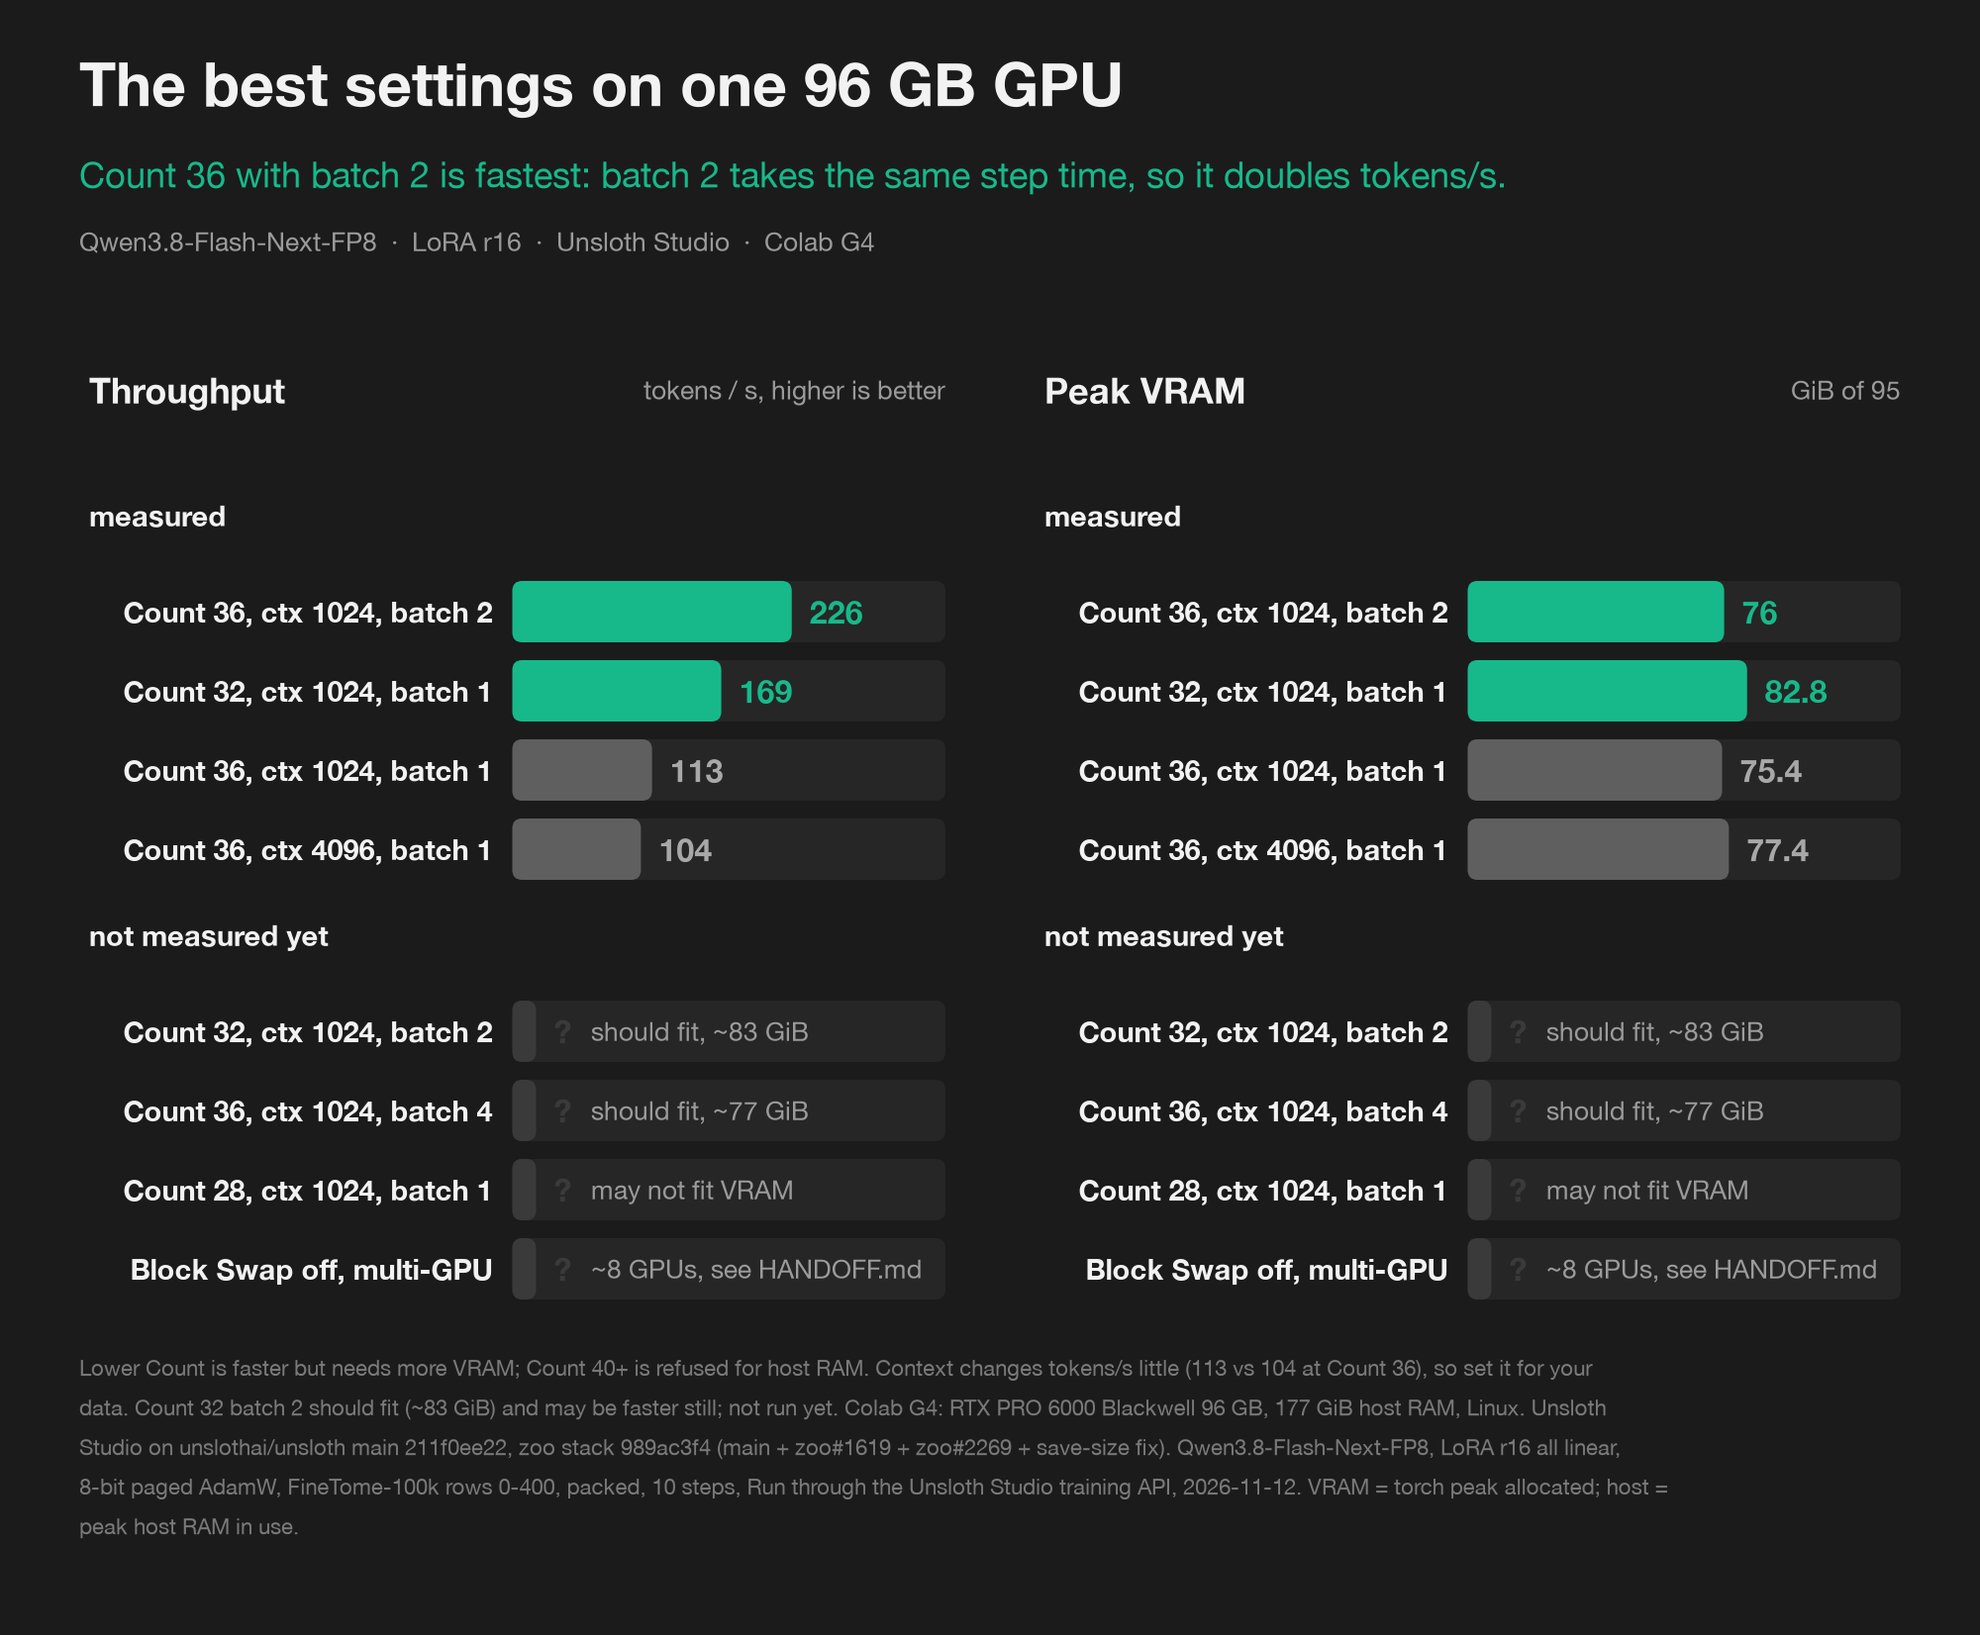
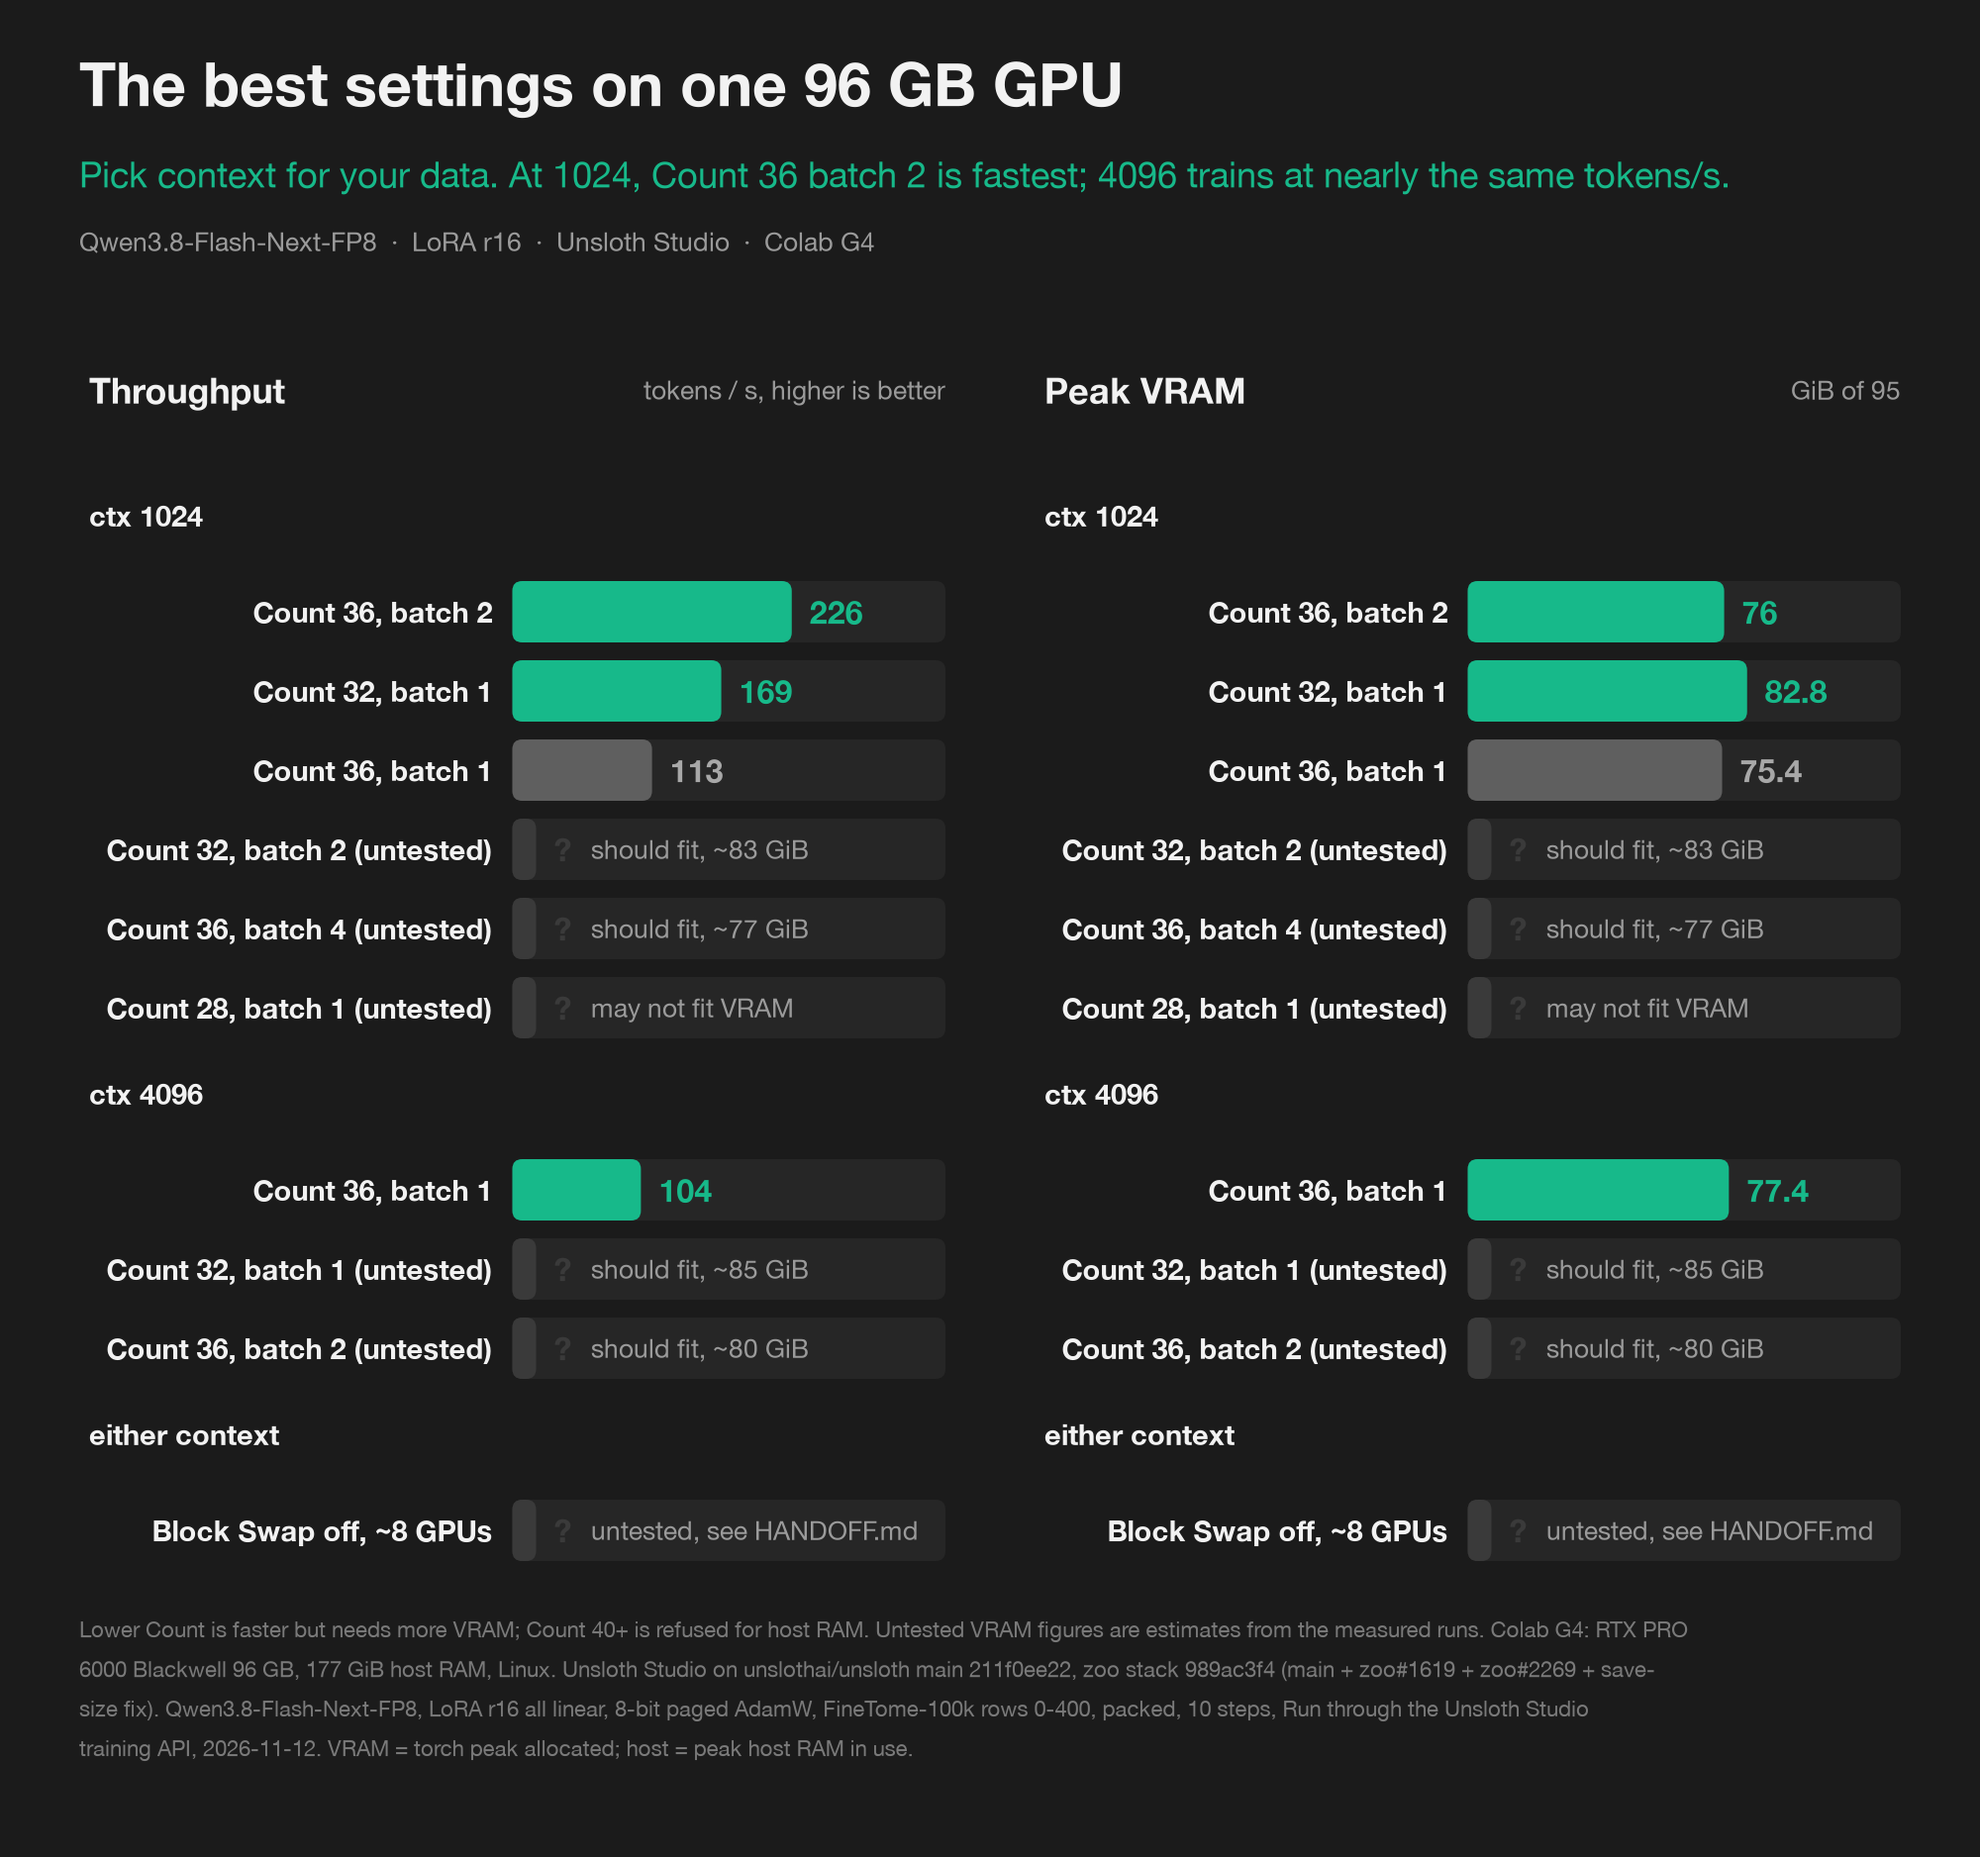
Flash-Next sweep: best settings grouped by context length

diff --git a/flash-next-sweep/make_charts.py b/flash-next-sweep/make_charts.py
@@ -260,20 +260,22 @@ tc.thick_chart(
                 'GPU-hours = GPUs x wall-clock. ' + FOOT),
     out = os.path.join(H, '10-efficiency'), ncols = 2, fmt = QFMT)
 
-# 11. Best settings: tokens/s and VRAM for each measured setting, best first
-bs = [(k, l) for k, l in (('nt-c36-bs2', 'Count 36, ctx 1024, batch 2'), ('nt-c32-ctx1024', 'Count 32, ctx 1024, batch 1'),
-                          ('nt-c36-ctx1024', 'Count 36, ctx 1024, batch 1'), ('nt-c36-ctx4096', 'Count 36, ctx 4096, batch 1')) if ok(k)]
-bk = ['new', 2, 'base', 'base']
-UNMEASURED = [('Count 32, ctx 1024, batch 2', 'should fit, ~83 GiB'), ('Count 36, ctx 1024, batch 4', 'should fit, ~77 GiB'),
-              ('Count 28, ctx 1024, batch 1', 'may not fit VRAM'), ('Block Swap off, multi-GPU', '~8 GPUs, see HANDOFF.md')]
+# 11. Best settings per context length: measured rows, then untested candidates
+P = '#3a3a3a'
+CTXG = [('ctx 1024', [('nt-c36-bs2', 'Count 36, batch 2', 'new'), ('nt-c32-ctx1024', 'Count 32, batch 1', 2), ('nt-c36-ctx1024', 'Count 36, batch 1', 'base')],
+                     [('Count 32, batch 2', 'should fit, ~83 GiB'), ('Count 36, batch 4', 'should fit, ~77 GiB'), ('Count 28, batch 1', 'may not fit VRAM')]),
+        ('ctx 4096', [('nt-c36-ctx4096', 'Count 36, batch 1', 'new')],
+                     [('Count 32, batch 1', 'should fit, ~85 GiB'), ('Count 36, batch 2', 'should fit, ~80 GiB')]),
+        ('either context', [], [('Block Swap off, ~8 GPUs', 'untested, see HANDOFF.md')])]
+def best_groups(val):
+    return [(g, [(l, val(k), kd) for k, l, kd in meas if ok(k)] + [(l if l.startswith('Block') else l + ' (untested)', 0.0, P, n) for l, n in todo]) for g, meas, todo in CTXG]
 tc.thick_chart(
-    panels = [{'title': 'Throughput', 'unit': 'tokens / s, higher is better', 'groups': [('measured', [(l, round(toks(k)), bk[i]) for i, (k, l) in enumerate(bs)]), ('not measured yet', [(l, 0.0, '#3a3a3a', n) for l, n in UNMEASURED])]},
-              {'title': 'Peak VRAM', 'unit': 'GiB of 95', 'groups': [('measured', [(l, round(vram(k), 1), bk[i]) for i, (k, l) in enumerate(bs)]), ('not measured yet', [(l, 0.0, '#3a3a3a', n) for l, n in UNMEASURED])]}],
+    panels = [{'title': 'Throughput', 'unit': 'tokens / s, higher is better', 'groups': best_groups(lambda k: round(toks(k)))},
+              {'title': 'Peak VRAM', 'unit': 'GiB of 95', 'groups': best_groups(lambda k: round(vram(k), 1))}],
     title = 'The best settings on one 96 GB GPU',
-    subtitle = 'Count 36 with batch 2 is fastest: batch 2 takes the same step time, so it doubles tokens/s.',
+    subtitle = 'Pick context for your data. At 1024, Count 36 batch 2 is fastest; 4096 trains at nearly the same tokens/s.',
     meta = ['Qwen3.8-Flash-Next-FP8', 'LoRA r16', 'Unsloth Studio', 'Colab G4'],
-    footnote = 'Lower Count is faster but needs more VRAM; Count 40+ is refused for host RAM. Context changes tokens/s little (113 vs 104 at Count 36), so set it for your data. '
-               'Count 32 batch 2 should fit (~83 GiB) and may be faster still; not run yet. ' + FOOT.replace('batch 1. ', ''),
+    footnote = 'Lower Count is faster but needs more VRAM; Count 40+ is refused for host RAM. Untested VRAM figures are estimates from the measured runs. ' + FOOT.replace('batch 1. ', ''),
     out = os.path.join(H, '11-best-settings'), ncols = 2, fmt = QFMT)
 
 print('charts:', sorted(f for f in os.listdir(H) if f.endswith('.png')))
